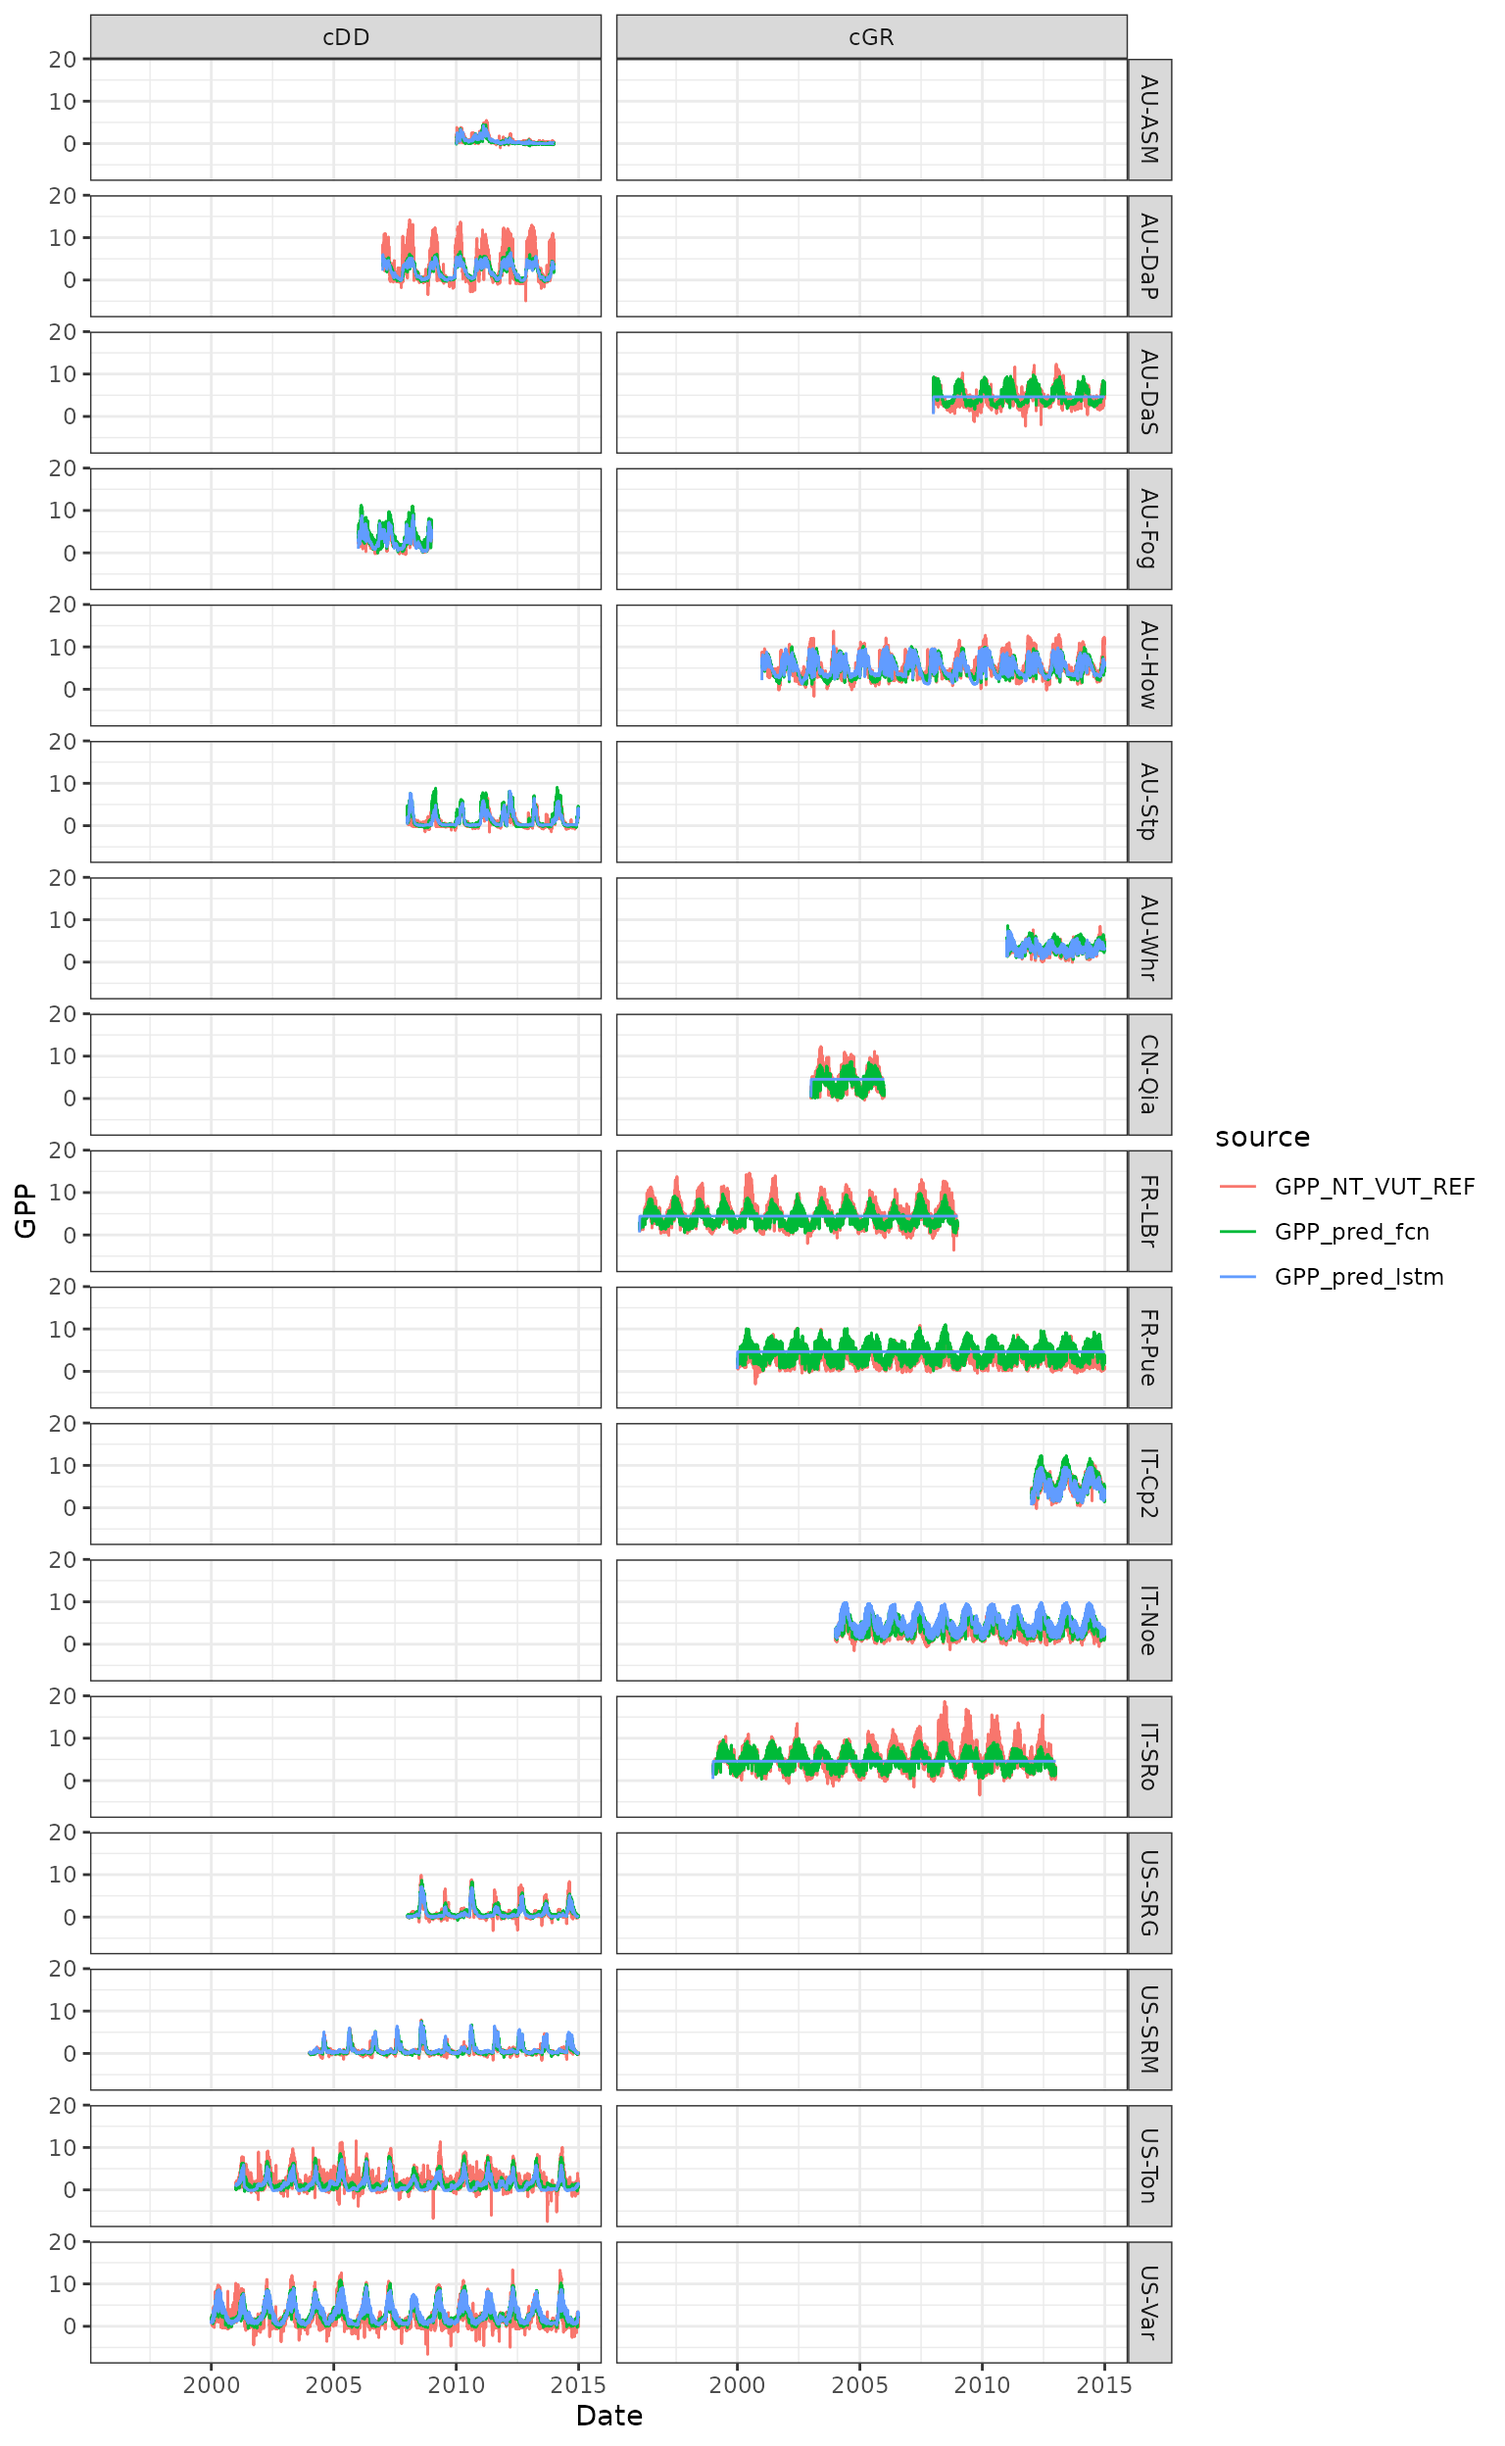
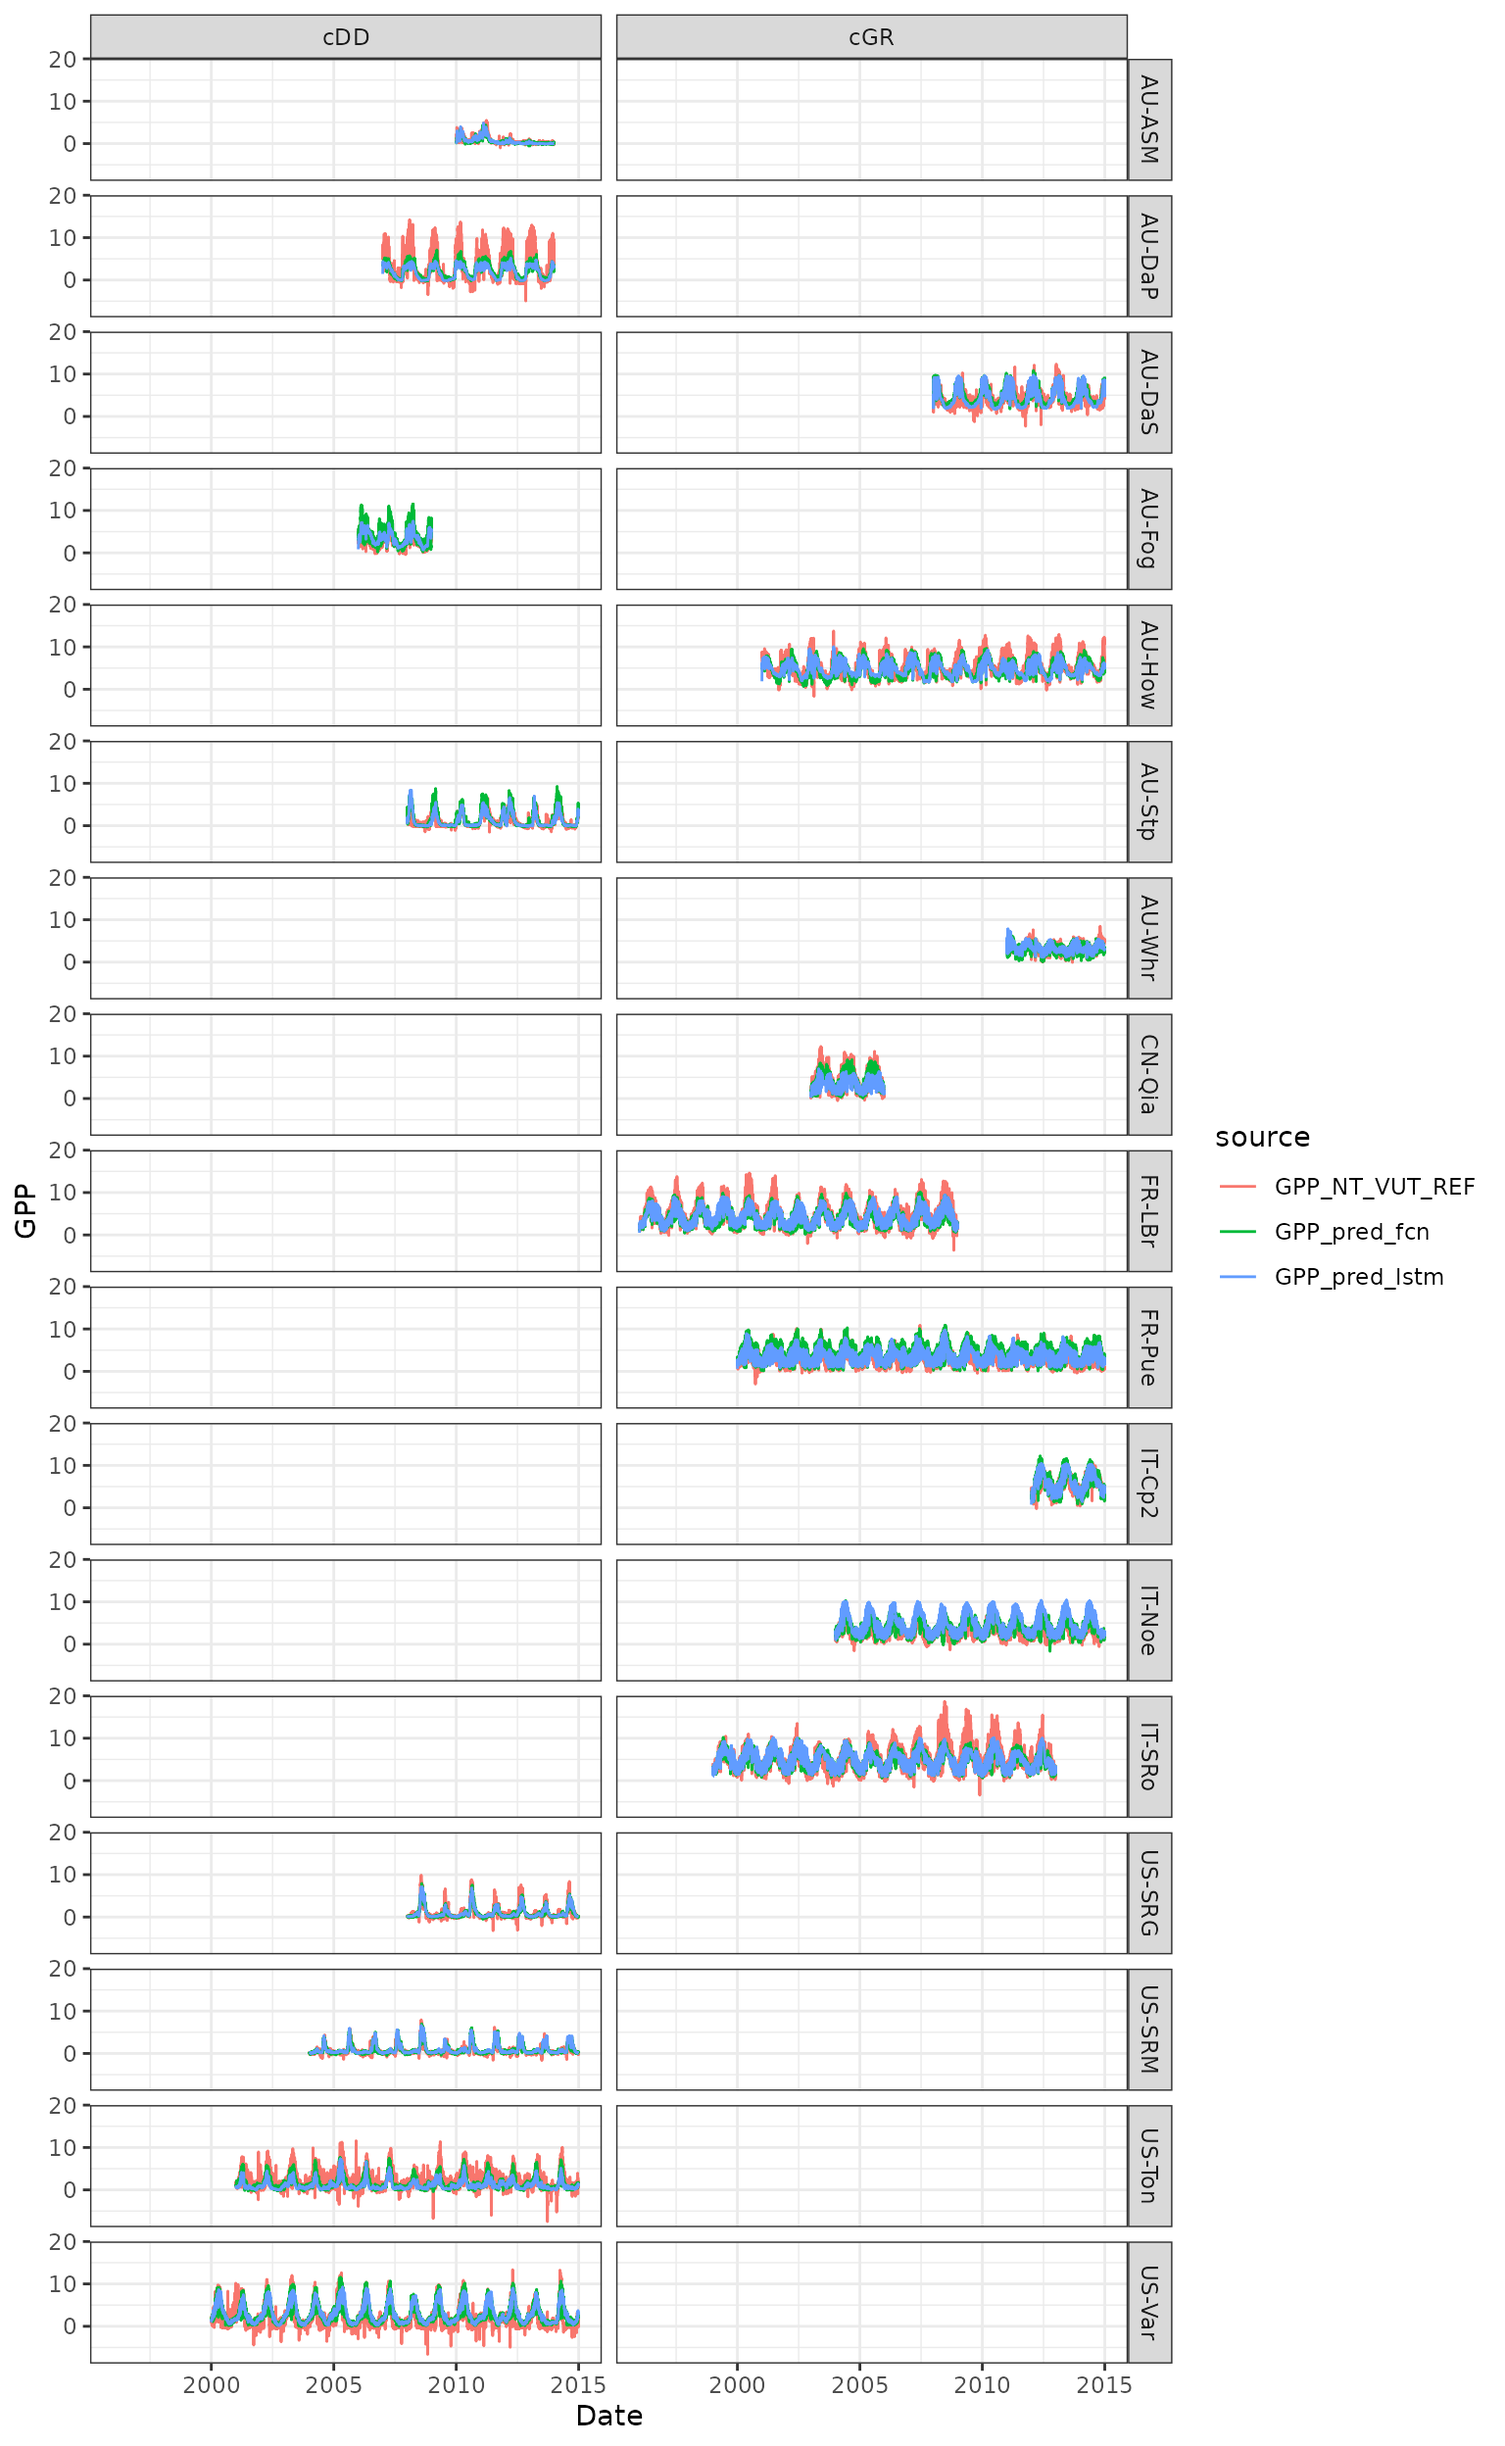
Deploying to gh-pages from @ geco-bern/mlflx3_R@944cb95a360a3e14eb75d124dcdb9b3f535cf97f 🚀

diff --git a/articles/01_results.html b/articles/01_results.html
@@ -100,9 +100,9 @@ Hufkens</h4>
     
     
 <p>Summary results of training FCN / LSTM models on 150 epochs.</p>
-<div class="reactable html-widget html-fill-item" id="htmlwidget-2d0313bd56117055a2a6" style="width:auto;height:auto;"></div>
-<script type="application/json" data-for="htmlwidget-2d0313bd56117055a2a6">{"x":{"tag":{"name":"Reactable","attribs":{"data":{"R2_lstm":[0.42],"RMSE_lstm":[2.223],"MAE_lstm":[0.131],"R2_fcn":[0.617],"RMSE_fcn":[1.802],"MAE_fcn":[0.173]},"columns":[{"id":"R2_lstm","name":"R2_lstm","type":"numeric"},{"id":"RMSE_lstm","name":"RMSE_lstm","type":"numeric"},{"id":"MAE_lstm","name":"MAE_lstm","type":"numeric"},{"id":"R2_fcn","name":"R2_fcn","type":"numeric"},{"id":"RMSE_fcn","name":"RMSE_fcn","type":"numeric"},{"id":"MAE_fcn","name":"MAE_fcn","type":"numeric"}],"dataKey":"3d7a6521d9c249e00dfd4b8a0f810d87"},"children":[]},"class":"reactR_markup"},"evals":[],"jsHooks":[]}</script><div class="reactable html-widget html-fill-item" id="htmlwidget-afd05bf8c9c1e3735000" style="width:auto;height:auto;"></div>
-<script type="application/json" data-for="htmlwidget-afd05bf8c9c1e3735000">{"x":{"tag":{"name":"Reactable","attribs":{"data":{"sitename":["AU-ASM","AU-DaP","AU-Fog","AU-Stp","US-SRG","US-SRM","US-Ton","US-Var","AU-DaS","AU-How","AU-Whr","CN-Qia","FR-LBr","FR-Pue","IT-Cp2","IT-Noe","IT-SRo"],"cluster":["cDD","cDD","cDD","cDD","cDD","cDD","cDD","cDD","cGR","cGR","cGR","cGR","cGR","cGR","cGR","cGR","cGR"],"R2_lstm":[0.673,0.74,0.57,0.59,0.795,0.806,0.481,0.531,0.001,0.541,0.458,0.007,0.001,0,0.579,0.584,0.002],"RMSE_lstm":[0.62,2.948,1.473,1.109,0.872,0.619,1.944,2.321,2.108,1.68,0.962,2.711,2.972,2.325,1.476,2.898,3.151],"MAE_lstm":[0.124,1.358,0.635,0.235,0.317,0.215,1.167,1.187,0.22,0.045,0.028,0.33,0.541,1.275,0.008,2.506,1.063],"R2_fcn":[0.696,0.719,0.647,0.576,0.749,0.774,0.56,0.618,0.513,0.472,0.471,0.807,0.759,0.557,0.58,0.511,0.618],"RMSE_fcn":[0.661,2.898,2.178,1.377,0.859,0.579,1.681,2.018,1.694,1.844,0.987,1.486,1.7,2.082,1.841,2.14,1.973],"MAE_fcn":[0.295,1.274,1.538,0.407,0.096,0.085,0.877,0.931,0.701,0.338,0.344,0.809,0.622,1.509,0.837,1.632,0.603]},"columns":[{"id":"sitename","name":"sitename","type":"character"},{"id":"cluster","name":"cluster","type":"character"},{"id":"R2_lstm","name":"R2_lstm","type":"numeric"},{"id":"RMSE_lstm","name":"RMSE_lstm","type":"numeric"},{"id":"MAE_lstm","name":"MAE_lstm","type":"numeric"},{"id":"R2_fcn","name":"R2_fcn","type":"numeric"},{"id":"RMSE_fcn","name":"RMSE_fcn","type":"numeric"},{"id":"MAE_fcn","name":"MAE_fcn","type":"numeric"}],"dataKey":"a44acde6c6e8a1146c67f2f0b2bf7365"},"children":[]},"class":"reactR_markup"},"evals":[],"jsHooks":[]}</script><p><img src="01_results_files/figure-html/unnamed-chunk-4-1.png" width="700"></p>
+<div class="reactable html-widget html-fill-item" id="htmlwidget-8ceb03c3781cc2083e4f" style="width:auto;height:auto;"></div>
+<script type="application/json" data-for="htmlwidget-8ceb03c3781cc2083e4f">{"x":{"tag":{"name":"Reactable","attribs":{"data":{"R2_lstm":[0.59],"RMSE_lstm":[1.866],"MAE_lstm":[0.107],"R2_fcn":[0.615],"RMSE_fcn":[1.807],"MAE_fcn":[0.169]},"columns":[{"id":"R2_lstm","name":"R2_lstm","type":"numeric"},{"id":"RMSE_lstm","name":"RMSE_lstm","type":"numeric"},{"id":"MAE_lstm","name":"MAE_lstm","type":"numeric"},{"id":"R2_fcn","name":"R2_fcn","type":"numeric"},{"id":"RMSE_fcn","name":"RMSE_fcn","type":"numeric"},{"id":"MAE_fcn","name":"MAE_fcn","type":"numeric"}],"dataKey":"ac6869b83a7643b5c801413dc58f5c75"},"children":[]},"class":"reactR_markup"},"evals":[],"jsHooks":[]}</script><div class="reactable html-widget html-fill-item" id="htmlwidget-1b2df538d459eb84280f" style="width:auto;height:auto;"></div>
+<script type="application/json" data-for="htmlwidget-1b2df538d459eb84280f">{"x":{"tag":{"name":"Reactable","attribs":{"data":{"sitename":["AU-ASM","AU-DaP","AU-Fog","AU-Stp","US-SRG","US-SRM","US-Ton","US-Var","AU-DaS","AU-How","AU-Whr","CN-Qia","FR-LBr","FR-Pue","IT-Cp2","IT-Noe","IT-SRo"],"cluster":["cDD","cDD","cDD","cDD","cDD","cDD","cDD","cDD","cGR","cGR","cGR","cGR","cGR","cGR","cGR","cGR","cGR"],"R2_lstm":[0.665,0.703,0.564,0.579,0.785,0.8,0.437,0.518,0.517,0.473,0.446,0.691,0.74,0.561,0.579,0.574,0.624],"RMSE_lstm":[0.641,3.184,1.534,1.117,0.829,0.598,2.087,2.343,1.782,1.835,0.952,2.104,1.561,1.482,1.685,2.732,1.84],"MAE_lstm":[0.191,1.606,1.067,0.133,0.162,0.202,1.286,1.18,0.313,0.47,0.11,1.268,0.211,0.699,0.695,2.17,0.185],"R2_fcn":[0.699,0.712,0.615,0.566,0.747,0.781,0.535,0.574,0.499,0.475,0.366,0.829,0.776,0.549,0.589,0.564,0.627],"RMSE_fcn":[0.633,2.882,2.479,1.421,0.879,0.588,1.712,2.195,1.766,1.873,1.025,1.209,1.589,2.041,1.837,2.031,1.91],"MAE_fcn":[0.232,1.193,1.847,0.403,0.136,0.169,0.872,1.096,0.697,0.557,0.112,0.423,0.63,1.47,0.831,1.537,0.514]},"columns":[{"id":"sitename","name":"sitename","type":"character"},{"id":"cluster","name":"cluster","type":"character"},{"id":"R2_lstm","name":"R2_lstm","type":"numeric"},{"id":"RMSE_lstm","name":"RMSE_lstm","type":"numeric"},{"id":"MAE_lstm","name":"MAE_lstm","type":"numeric"},{"id":"R2_fcn","name":"R2_fcn","type":"numeric"},{"id":"RMSE_fcn","name":"RMSE_fcn","type":"numeric"},{"id":"MAE_fcn","name":"MAE_fcn","type":"numeric"}],"dataKey":"174dbb229915e4228991c2892c4438c8"},"children":[]},"class":"reactR_markup"},"evals":[],"jsHooks":[]}</script><p><img src="01_results_files/figure-html/unnamed-chunk-4-1.png" width="700"></p>
 <p><img src="01_results_files/figure-html/unnamed-chunk-5-1.png" width="700"></p>
 <p><img src="01_results_files/figure-html/unnamed-chunk-6-1.png" width="768"></p>
   </div>

diff --git a/index.html b/index.html
@@ -109,7 +109,7 @@ docker build -f Dockerfile -t rocker-torch .</code></pre>
 <div class="section level3">
 <h3 id="running-the-analysis">Running the analysis<a class="anchor" aria-label="anchor" href="#running-the-analysis"></a>
 </h3>
-<p>Analysis scripts are stored in the <code>analysis</code> folder and should be run in sequence. Note that the standard deep neural net is small enough to run an CPU. Summary <a href="https://geco-bern.github.io/mlflx2_R/articles/01_results.html" class="external-link">results</a> are automatically rendered using the vignettes in the <code>vignettes</code> folder.</p>
+<p>Analysis scripts are stored in the <code>analysis</code> folder and should be run in sequence. Note that the standard deep neural net is small enough to run an CPU. Summary <a href="https://geco-bern.github.io/mlflx3_R/articles/01_results.html" class="external-link">results</a> are automatically rendered using the vignettes in the <code>vignettes</code> folder.</p>
 </div>
 </div>
 <div class="section level2">
